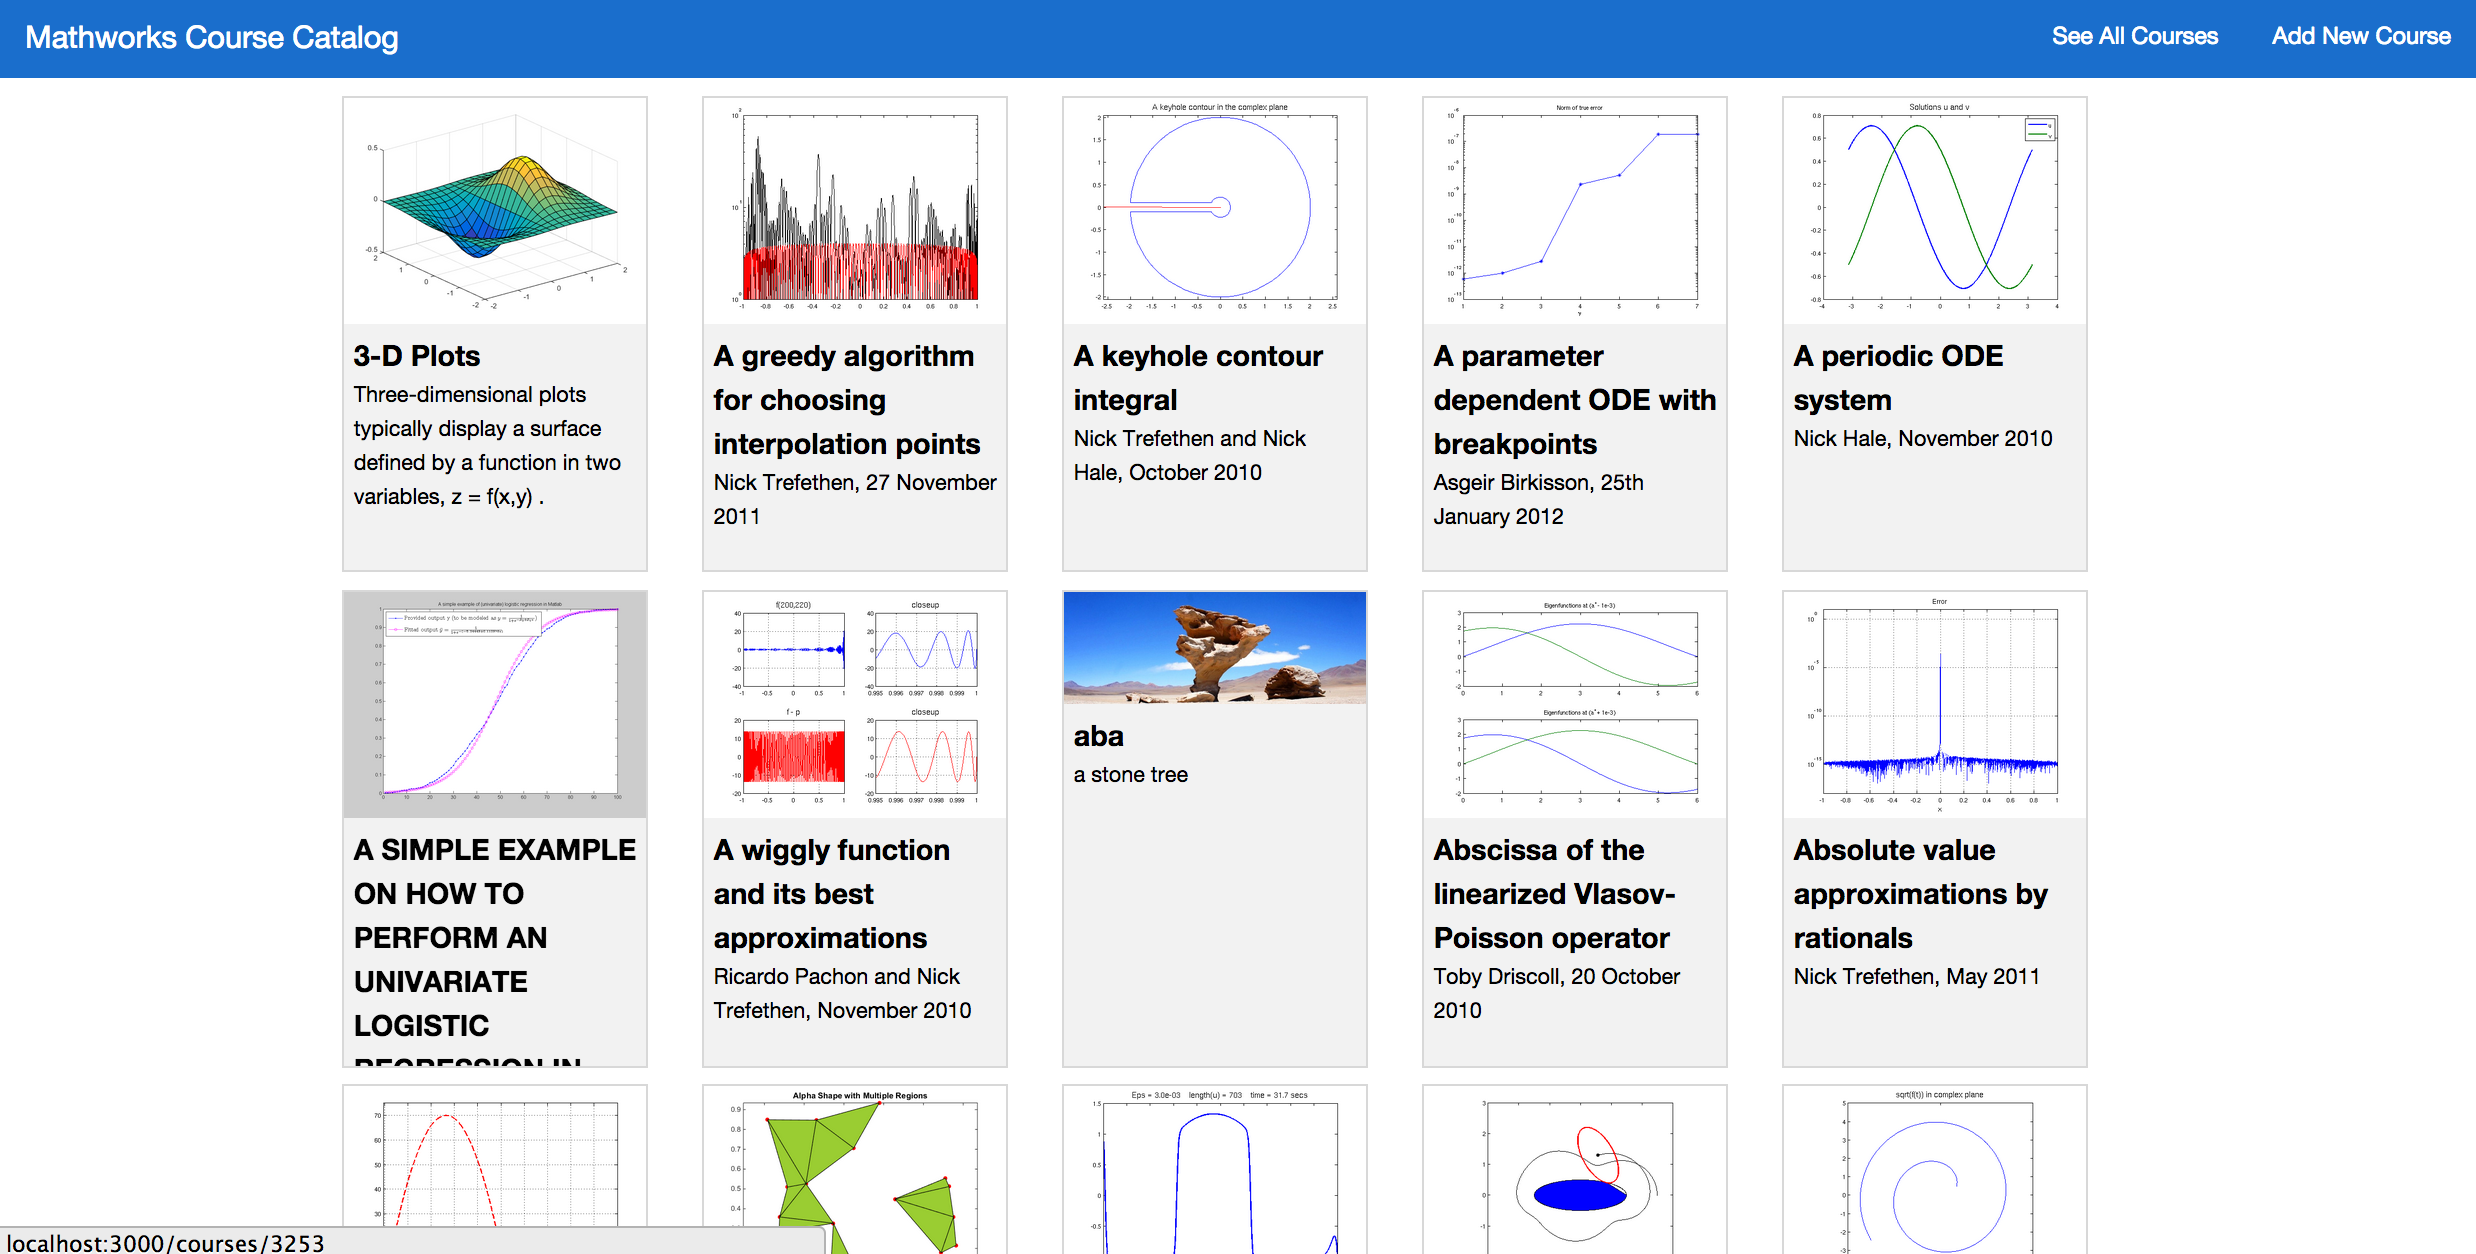
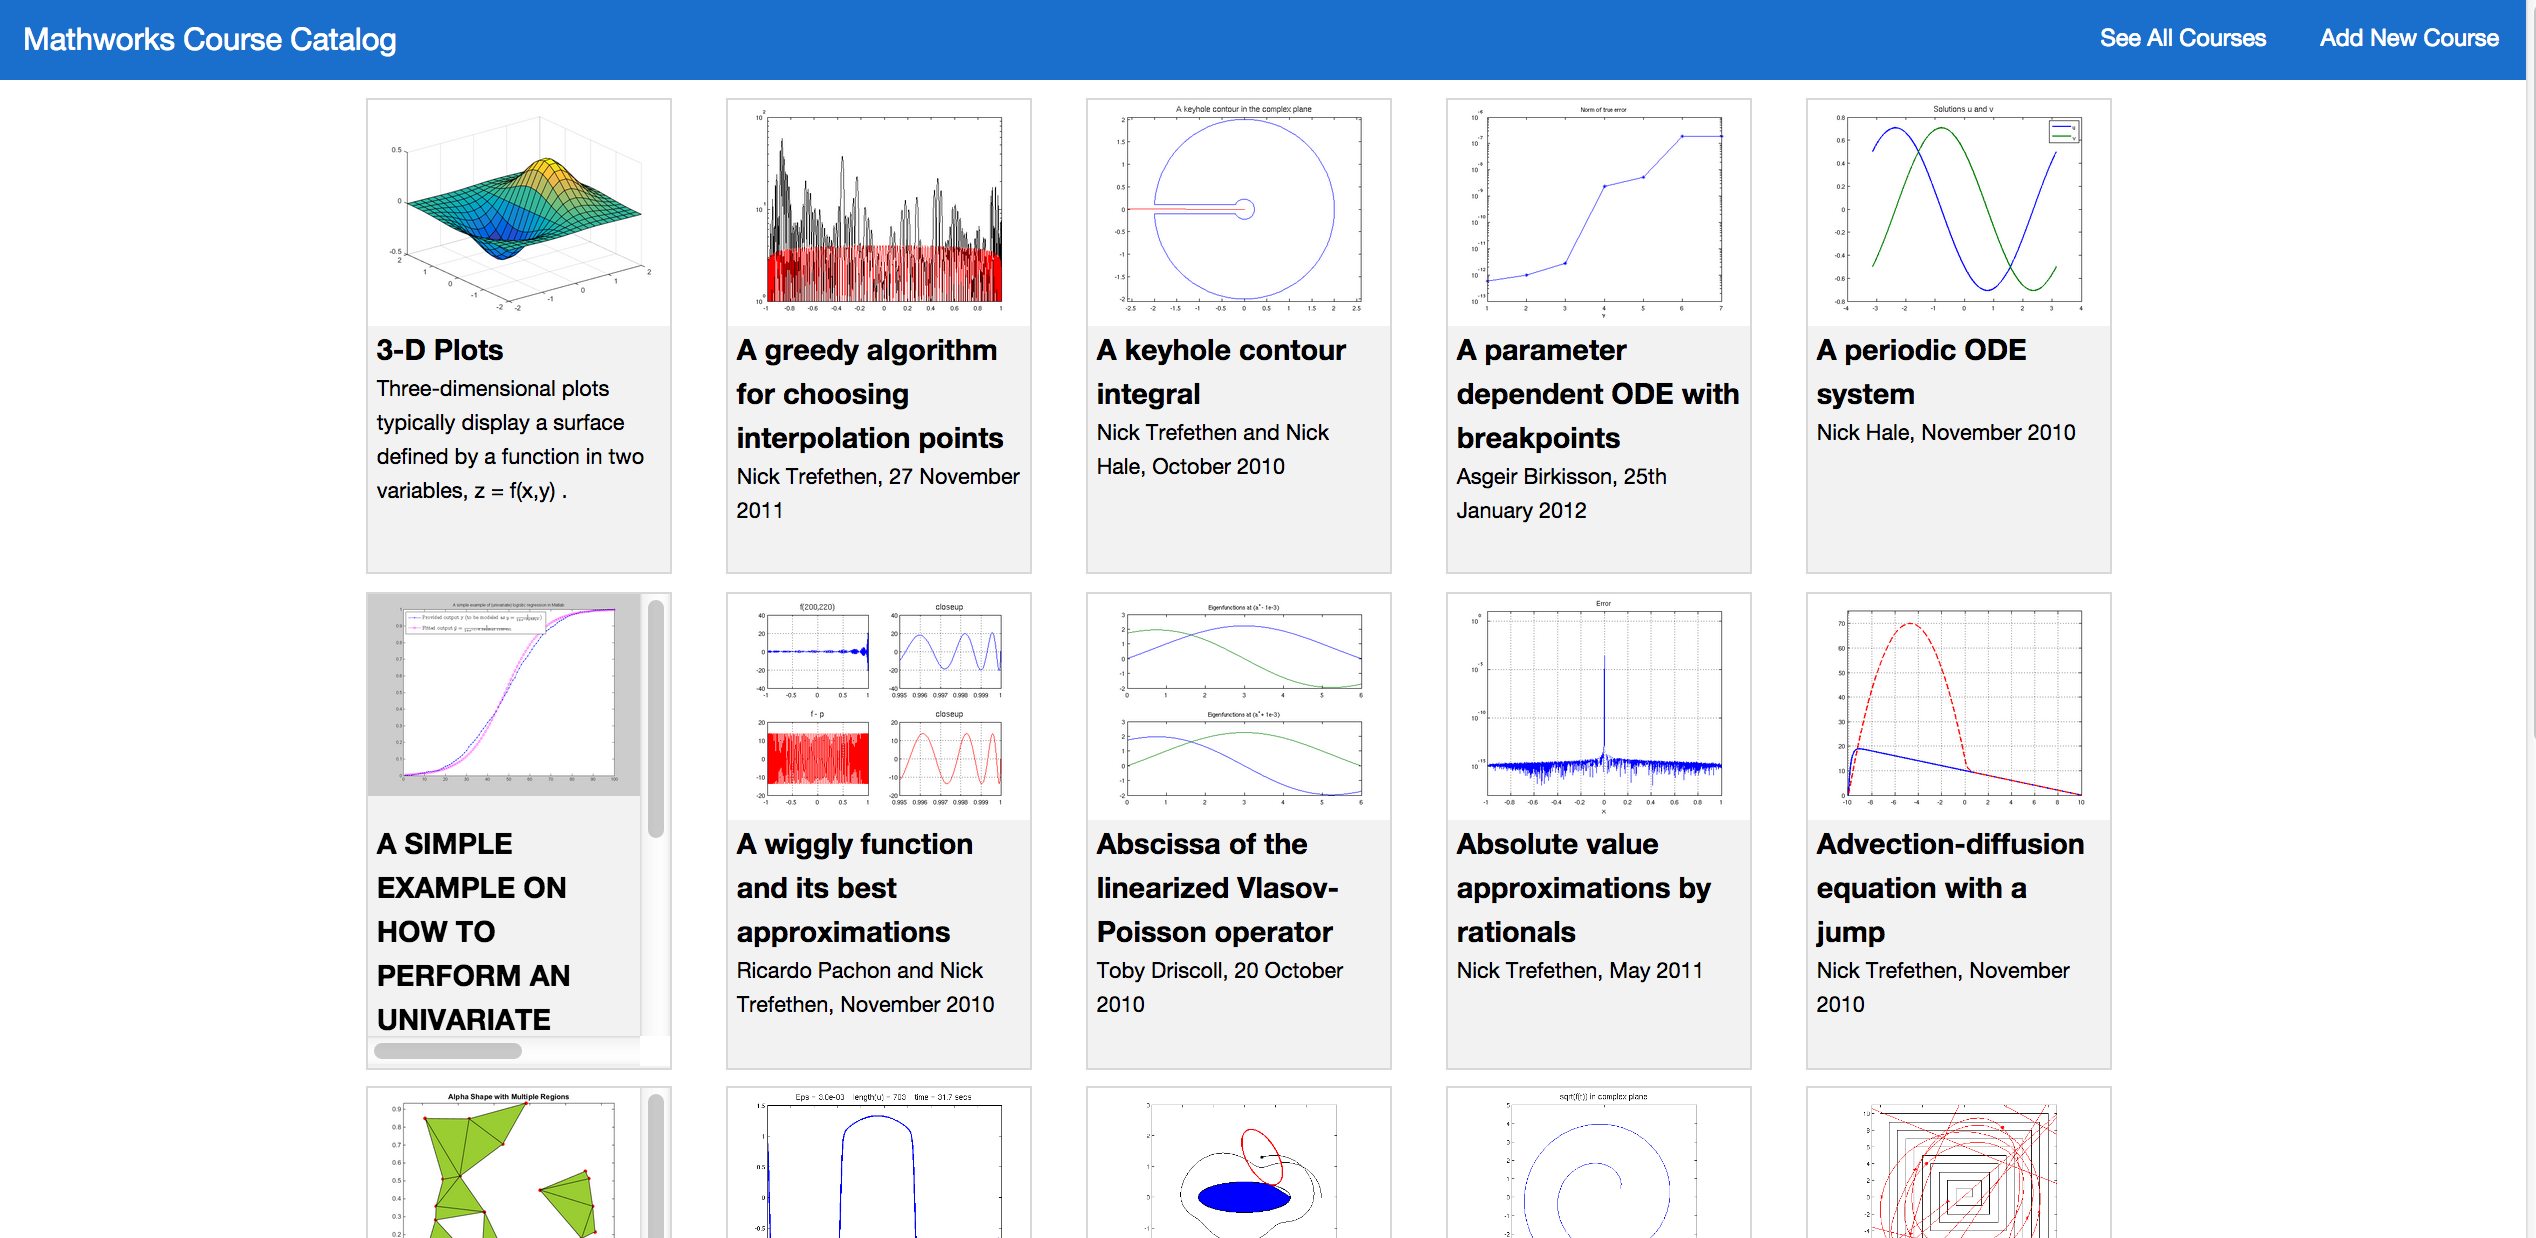
updated card styling to standardize image url inputs

diff --git a/app/assets/stylesheets/application.css b/app/assets/stylesheets/application.css
@@ -50,6 +50,12 @@
   padding-right: 5px;
 }
 
+.course-img-container {
+  height: 127px;
+  overflow: hidden;
+  background: white;
+}
+
 .course-img {
   display: inline-block;
   overflow: hidden;

diff --git a/README.md b/README.md
@@ -62,18 +62,15 @@ October 31, 2014:
 - Built models, views and controllers for courses and sources
 - added foundation for front end
 
-November 1, 2014:
+November 1-3, 2014:
 - Updated seeder file for courses
 - Added courses_path view so that the welcome page can allow for search
 - Added search functionality for name and description
 - Updated course show page for panelized course details and some styling
 - Added unit tests for course and source
-
-November 2, 2014:
 - Added search feature test
 - Updated seed file to scrape Mathworks matlab examples website and exclude empty image courses
 - Added travis, code climate and code coverage badges
 - Added feature test for course show page
 - Added pagination with Kaminari
 - Updated styling
-- Need to fix sizing issue with image urls
